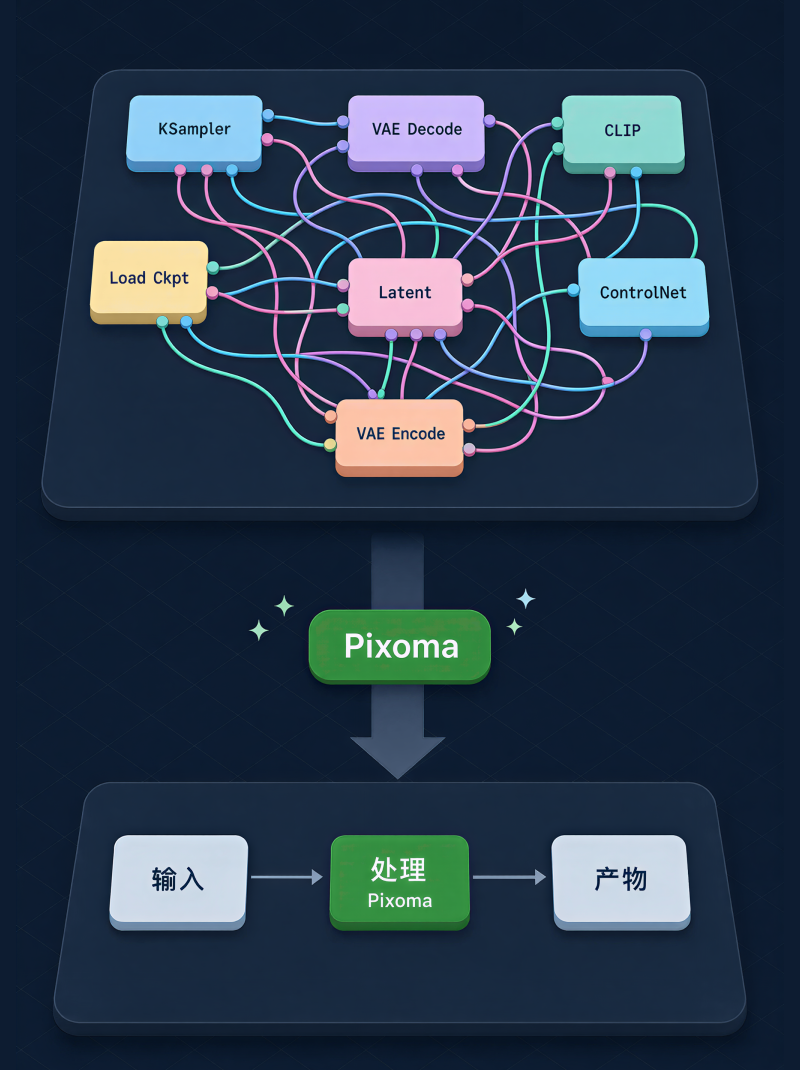
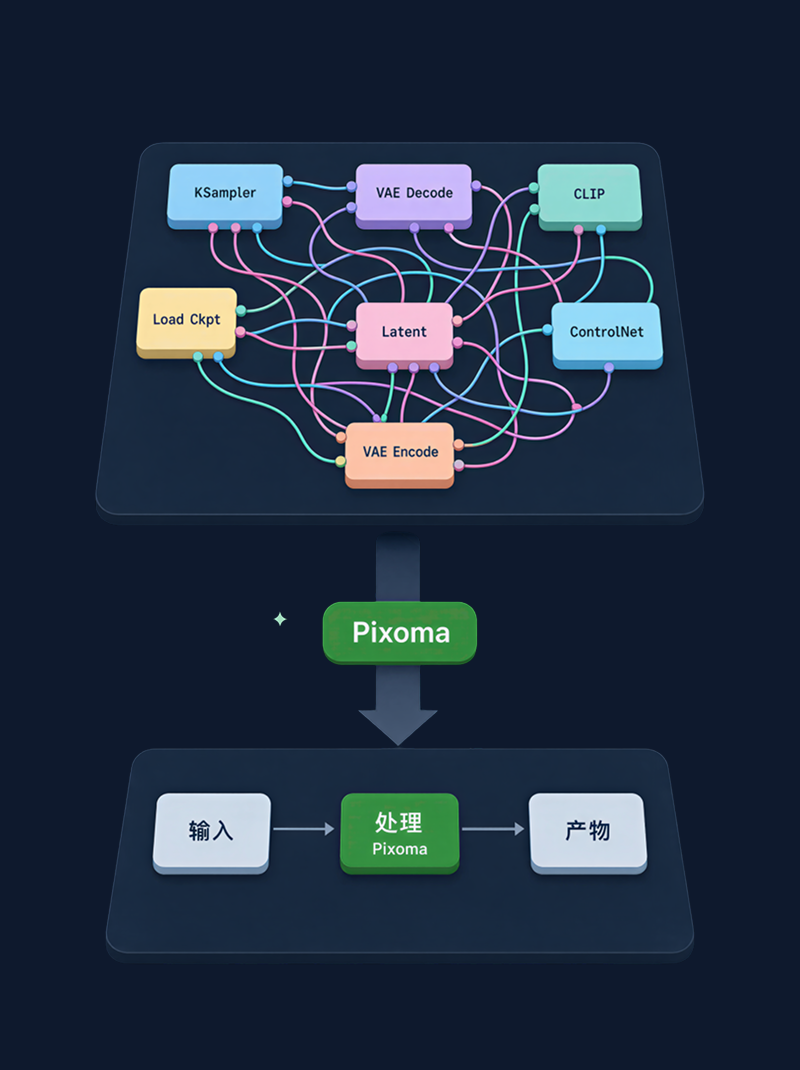
landing: update features, FAQ, compress images, add telegram bot screenshots

diff --git a/web/landing/src/components/features-3.tsx b/web/landing/src/components/features-3.tsx
@@ -14,7 +14,7 @@ import { cn } from "@/lib/utils";
 type DeployMode = "local" | "cloud";
 
 const VIGNETTE_MASK =
-  "radial-gradient(circle at center, transparent 0%, transparent 136px, black 100%)";
+  "radial-gradient(circle at center, transparent 0%, transparent 160px, black 100%)";
 
 const IMAGE_CLASS = "absolute inset-0 size-full object-cover";
 
@@ -29,10 +29,26 @@ const BLUR_LAYER_STYLE = {
 } as CSSProperties;
 
 const SIMPLIFY_VIGNETTE_MASK =
-  "radial-gradient(circle at center, transparent 0%, transparent 640px, black 100%)";
+  "radial-gradient(circle at center, transparent 0%, transparent 160px, black 100%)";
 
 const SIMPLIFY_BLUR_STYLE = {
   ...BLUR_LAYER_STYLE,
+  WebkitMaskImage: SIMPLIFY_VIGNETTE_MASK,
+  maskImage: SIMPLIFY_VIGNETTE_MASK,
+} as CSSProperties;
+
+const SIMPLIFY_WHITE_TINT_STYLE = {
+  backgroundColor: "rgba(255, 255, 255, 1)",
+  WebkitMaskMode: "alpha",
+  maskMode: "alpha",
+  WebkitMaskImage: SIMPLIFY_VIGNETTE_MASK,
+  maskImage: SIMPLIFY_VIGNETTE_MASK,
+} as CSSProperties;
+
+const SIMPLIFY_DARK_TINT_STYLE = {
+  backgroundColor: "rgba(0, 0, 0, 1)",
+  WebkitMaskMode: "alpha",
+  maskMode: "alpha",
   WebkitMaskImage: SIMPLIFY_VIGNETTE_MASK,
   maskImage: SIMPLIFY_VIGNETTE_MASK,
 } as CSSProperties;
@@ -72,7 +88,7 @@ export default function Features() {
           </h2>
         </Reveal>
         <Reveal className="**:data-[slot=card]:bg-background mt-8 grid gap-x-3 gap-y-6 md:mt-16 md:grid-cols-2 lg:grid-cols-3">
-          <div className="row-span-2 grid grid-cols-subgrid gap-4">
+          <div className="row-span-2 grid grid-cols-subgrid gap-4 content-start">
             <Card className="aspect-9/12 relative overflow-hidden">
               <Image
                 src={isDark ? "/images/simplify-dark.png" : "/images/simplify-light.png"}
@@ -94,20 +110,26 @@ export default function Features() {
               <div
                 aria-hidden
                 className="pointer-events-none absolute inset-0 z-[1]"
-                style={isDark ? DARK_TINT_STYLE : WHITE_TINT_STYLE}
+                style={isDark ? SIMPLIFY_DARK_TINT_STYLE : SIMPLIFY_WHITE_TINT_STYLE}
               />
             </Card>
 
             <p className="text-muted-foreground text-balance">
               <span className="text-foreground">化繁为简</span>
               <br />
-              不再关心节点和参数，把灵感交给 Pixoma。
+              一次配置，简化操作，释放灵感。
             </p>
           </div>
 
-          <div className="row-span-2 grid grid-cols-subgrid gap-4">
-            <Card className="aspect-9/12 bg-zinc-200! relative overflow-hidden">
-              <DynamicIslandIllustration />
+          <div className="row-span-2 grid grid-cols-subgrid gap-4 content-start">
+            <Card className="aspect-9/12 relative overflow-hidden">
+              <Image
+                src={isDark ? "/images/telegram-bot-dark.png" : "/images/telegram-bot-light.png"}
+                alt="创意不设限：在 Telegram 上通过 Pixoma 机器人实现文生视频"
+                width={800}
+                height={1070}
+                className={IMAGE_CLASS}
+              />
             </Card>
 
             <p className="text-muted-foreground text-balance">
@@ -117,7 +139,7 @@ export default function Features() {
             </p>
           </div>
 
-          <div className="row-span-2 grid grid-cols-subgrid gap-4">
+          <div className="row-span-2 grid grid-cols-subgrid gap-4 content-start">
             <Card className="aspect-9/12 relative overflow-hidden">
               <motion.div
                 className="absolute inset-0"
@@ -189,7 +211,8 @@ export default function Features() {
             <p className="text-muted-foreground text-balance">
               <span className="text-foreground">部署简单</span>
               <br />
-              支持本地运行，依赖最小化。也支持云端多节点部署。
+              {/* 支持本地运行，依赖最小化。也支持云端多节点部署。 */}
+              最小化依赖，支持本地运行或云端多节点部署，灵活适配个人与团队环境。
             </p>
           </div>
         </Reveal>

diff --git a/web/landing/src/components/faqs-1.tsx b/web/landing/src/components/faqs-1.tsx
@@ -15,33 +15,21 @@ export default function FAQs() {
   const faqItems = [
     {
       id: "item-1",
-      question: "How long does shipping take?",
+      question: "部署 Pixoma 需要做好什么准备？",
       answer:
-        "Standard shipping takes 3-5 business days, depending on your location. Express shipping options are available at checkout for 1-2 business day delivery.",
+        "Pixoma 设计都支持依赖最小化（SQLite+本地文件存储），在 ALL IN ONE 场景下，你只需一台电脑即可完成整套服务的部署。但是对于网络环境受限的用户来说，还需要具备可正常访问 Telegram 的网络环境。",
     },
     {
       id: "item-2",
-      question: "What payment methods do you accept?",
+      question: "Pixoma 会帮我准备好 ComfyUI 吗?",
       answer:
-        "We accept all major credit cards (Visa, Mastercard, American Express), PayPal, Apple Pay, and Google Pay. For enterprise customers, we also offer invoicing options.",
+        "不会，Pixoma 目前定位更多是帮助你把 ComfyUI 能力向外提供，所以需要您先准备好 ComfyUI 的运行环境，并且确保你的工作流都是可以正常运行。",
     },
     {
       id: "item-3",
-      question: "Can I change or cancel my order?",
+      question: "如果我想要使用云端的 ComfyUI 计算节点，需要做哪些准备？",
       answer:
-        "You can modify or cancel your order within 1 hour of placing it. After this window, please contact our customer support team who will assist you with any changes.",
-    },
-    {
-      id: "item-4",
-      question: "Do you ship internationally?",
-      answer:
-        "Yes, we ship to over 50 countries worldwide. International shipping typically takes 7-14 business days. Additional customs fees may apply depending on your country's import regulations.",
-    },
-    {
-      id: "item-5",
-      question: "What is your return policy?",
-      answer:
-        "We offer a 30-day return policy for most items. Products must be in original condition with tags attached. Some specialty items may have different return terms, which will be noted on the product page.",
+        "1. 把 Pixoma 进程部署到云服务器：需要具备公网 IP 或者域名，以便 Pixoma-Edge-Agent 可以访问 Pixoma 服务拉取工作流任务。<br/>2. 准备一个公网 OSS 云存储：用于存储工作流任务的输入文件以及输出结果。",
     },
   ];
 
@@ -67,7 +55,7 @@ export default function FAQs() {
                       </AccordionTrigger>
                       <AccordionContent>
                         <p className="text-muted-foreground text-base">
-                          {item.answer}
+                          <span dangerouslySetInnerHTML={{ __html: item.answer }} />
                         </p>
                       </AccordionContent>
                     </AccordionItem>
@@ -77,13 +65,15 @@ export default function FAQs() {
             </StaggerGroup>
 
             <p className="text-muted-foreground mt-6">
-              Can't find what you're looking for? Contact our{" "}
+              有问题需要反馈或者咨询? 欢迎提{" "}
               <Link
-                href="#"
+                href="https://github.com/Mr9esx/Pixoma/issues"
+                target="_blank"
                 className="text-primary font-medium hover:underline"
               >
-                customer support team
+                Issue
               </Link>
+              。
             </p>
           </div>
         </Reveal>

diff --git a/web/landing/src/components/content-2.tsx b/web/landing/src/components/content-2.tsx
@@ -11,10 +11,9 @@ export default function ContentSection() {
               Pixoma 是一个什么样的项目？
             </h2>
           </Reveal>
-          <Reveal className="space-y-6 lg:space-y-6" delay={0.08}>
+          <Reveal className="space-y-6 lg:space-y-4" delay={0.08}>
             <p className="text-muted-foreground text-balance text-lg">
-            ComfyUI 高度依赖本地电脑环境，出门在外就没法使用工作流。
-            Pixoma 是 ComfyUI 的代理抽象层，把你的工作流打包成可调用服务。随时随地可以调用，团队内也能一键共享复用，不再被设备束缚。
+            辛辛苦苦搭建的 ComfyUI，出门在外就没办法使用。而 Pixoma 能够把 ComfyUI 的工作流转换成 Telegram Bot，变成随时随地调用的AI服务。
             </p>
 
             <div className="grid gap-4 sm:grid-cols-2">

diff --git a/web/landing/src/components/features-4.tsx b/web/landing/src/components/features-4.tsx
@@ -24,7 +24,7 @@ export default function Features() {
                   <span className="text-foreground font-medium">
                     创建工作流{" "}
                   </span>{" "}<br />
-                  Ownership changes without resetting the relationship.
+                  {/* Ownership changes without resetting the relationship. */}
                 </p>
               </div>
 
@@ -45,7 +45,7 @@ export default function Features() {
                   <span className="font-medium text-zinc-950">
                     使用工作流{" "}
                   </span>{" "}<br />
-                  Surface renewals and quiet accounts before they slip.
+                  {/* Surface renewals and quiet accounts before they slip. */}
                 </p>
               </div>
               <DynamicIslandIllustration />

diff --git a/web/landing/src/components/footer-2.tsx b/web/landing/src/components/footer-2.tsx
@@ -5,7 +5,7 @@ const footerLinks = [
   {
     name: "其他项目",
     links: [
-      { href: "https://kura.miaoplus.com", label: "KuRa" }
+      { href: "https://kura.miaoplus.com", target: "_blank", label: "KuRa" }
     ],
   },
   // {
@@ -50,6 +50,7 @@ export default function Footer() {
                   <li key={index}>
                     <Link
                       href={link.href}
+                      target={link.target}
                       className="hover:text-primary text-muted-foreground text-sm duration-150"
                     >
                       {link.label}

diff --git a/web/landing/src/components/landing-7/faqs-1.tsx b/web/landing/src/components/landing-7/faqs-1.tsx
@@ -61,7 +61,7 @@ export default function FAQs() {
                   </AccordionTrigger>
                   <AccordionContent>
                     <p className="text-muted-foreground text-base">
-                      {item.answer}
+                      <span dangerouslySetInnerHTML={{ __html: item.answer }} />
                     </p>
                   </AccordionContent>
                 </AccordionItem>
